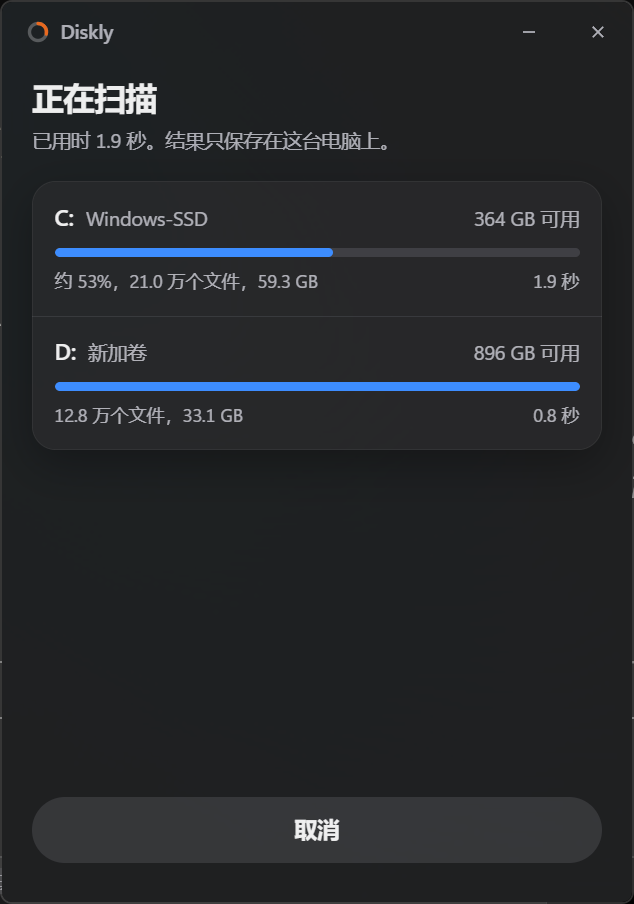
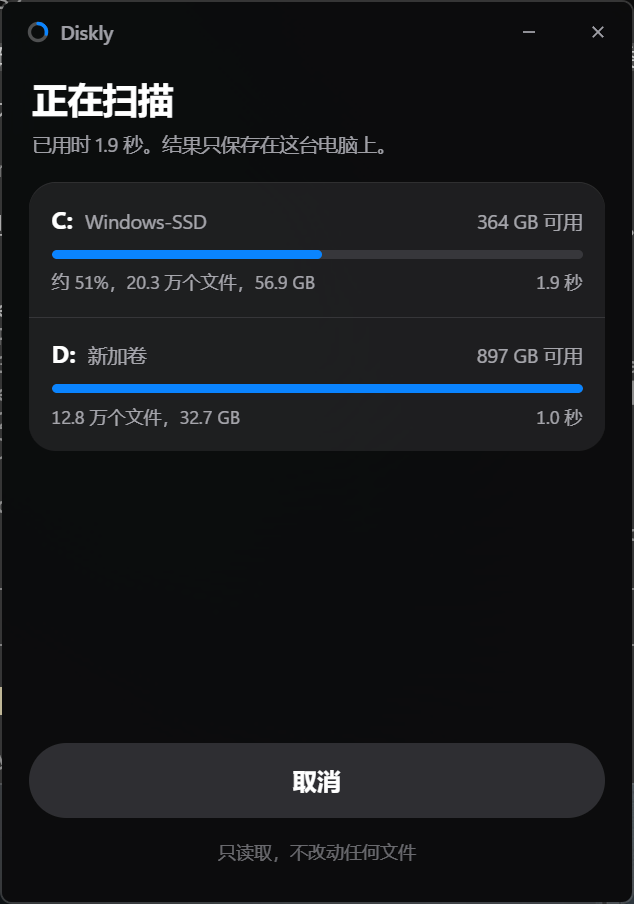
Rewrite the README around speed, size and the report, with the measurements

diff --git a/README.md b/README.md
@@ -1,24 +1,88 @@
 <h1 align="center">Diskly</h1>
 
-<p align="center"><strong>See what changed on your disks since last time.</strong></p>
+<p align="center"><strong>See where your disk space went, in seconds.</strong></p>
 
 <p align="center">
-  Press Scan. A report opens in your browser: how full each disk is, which folders grew or shrank, and what could not be read.<br>
-  Diskly only reads. It never deletes or changes your files, and it never goes online.
+  Press Scan and confirm the Windows prompt. About three seconds later, a report opens in your browser: a map of every disk, the biggest files and folders, and what changed since last time.<br>
+  It stays under 50 MB however long you use it. It only reads, and it never goes online.
 </p>
 
 <p align="center">
-  <img src="docs/images/report-light.png" width="860" alt="The Diskly report: one sentence on what changed, each disk with the change marked on its capacity bar, and the folders that grew and shrank most">
+  <img src="docs/images/report-dark.png" width="880" alt="The Diskly report on a black page: one sentence on what changed, a ring and a bar for each disk, the biggest file and folder, and the top of the space map">
 </p>
+
+<p align="center">
+  <a href="https://github.com/seiya058904/Diskly/releases/latest"><strong>Download for Windows</strong></a>
+  <br><sub>Installer 2.3 MB. Portable file 8.7 MB. The interface is in Chinese.</sub>
+</p>
+
+## Why Diskly
+
+### It is fast
+
+Diskly reads the NTFS file table directly, the same idea that makes WizTree quick, instead of opening folders one by one.
+
+| Two NVMe disks, about 730,000 files in total | Time |
+|---|---:|
+| Fast scan (the default) | **1.5 s** |
+| Saving, and writing the report | about 1 s |
+| The report on screen | 0.35 s |
+| Normal scan, if you decline administrator rights | 5.3 s |
+
+These are from one machine (i7-12700H) with the disks already in the Windows cache. The first fast scan after a while took 3.7 s. A larger or slower disk takes longer. The [full measurements](docs/benchmarks/2026-11-speed-and-footprint.md) say what was and was not tested.
+
+### It stays small, for good
+
+All of Diskly stays under **50 MB**: the program, its window's cache and its data. On the machine above it takes about **26 MB**.
+
+- **It does not build up.** Over 15 real scans in a row, the data went 8.2, 11, 14, 14.6, then stayed at 14.9 MB. A test runs 300 scans and checks that nothing has grown.
+- **It cleans up after itself.** Each scan removes what is no longer needed, and only ever Diskly's own files.
+- **It shows you.** The report and the settings say what it takes now, part by part.
+
+### The report is a pleasure to read
+
+True black, in the style of iOS, with frosted glass where content passes under it. Buttons respond on a spring, rings sweep in, and clicking a folder flies into it.
+
+It is also smooth by construction. Only transform and opacity animate, nothing listens to scrolling, and a choice redraws only what it changes. Scrolling a real report ran every frame within 16.8 ms, with no long tasks. That was measured on the page's main thread, in a headless browser.
+
+<p align="center">
+  <img src="docs/images/report-map.png" width="880" alt="The space map: each folder a tile sized by the space it takes, next to the same folders as a list">
+</p>
+
+**What it shows:**
+
+- **A map of the space.** Every folder is a tile sized by what it takes. Click to fly in, and switch to color by what changed.
+- **The biggest files.** Filter by type, click to copy a path, or jump to the folder.
+- **What the space is made of.** Video, images, archives, programs and more, down to each extension.
+- **The folders that take the most**, down to the ones that really explain it.
+- **Places worth a look.** Recycle Bin, downloads, caches, Docker and WSL, each with what it is and what the system offers for it. Diskly only tells you. It does not touch them.
+- **What changed since last time**, by folder and by file.
+- **The long view.** A trend for each disk over months or years, how fast it is filling, and when it would be full.
+
+<p align="center">
+  <img src="docs/images/report-files.png" width="880" alt="The biggest files with filters by type, next to what kinds of file take the space">
+</p>
+
+<p align="center">
+  <img src="docs/images/report-trend.png" width="880" alt="Used space over a year for each disk, with a forecast and the top-level folders that changed most">
+</p>
+
+### You can trust the numbers
+
+- **It only reads.** Diskly never deletes or changes your files, and a test keeps it that way.
+- **It stays on your computer.** No account, telemetry or network access.
+- **Unknown is not zero.** A folder that could not be read is marked unknown, with everything below it. It never counts as space freed.
+- **It follows the disk, not the letter.** A disk with a new letter still compares. A formatted one starts again rather than reporting everything as deleted.
 
 <table align="center">
   <tr>
-    <td><img src="docs/images/launcher-light.png" width="300" alt="The Diskly window, listing the disks and a Scan button"></td>
-    <td><img src="docs/images/launcher-scanning.png" width="300" alt="The Diskly window during a scan in dark mode, with progress and elapsed time for each disk"></td>
+    <td><img src="docs/images/launcher-home.png" width="270" alt="The Diskly window, listing the disks and a Scan button"></td>
+    <td><img src="docs/images/launcher-scanning.png" width="270" alt="The Diskly window during a scan, with progress and elapsed time for each disk"></td>
+    <td><img src="docs/images/launcher-settings.png" width="270" alt="The settings, showing how much disk space Diskly itself takes against its limit"></td>
   </tr>
 </table>
 
-<p align="center"><sub>The window is real. The report above shows made-up data, so no real paths are published. The interface is in Chinese.</sub></p>
+<p align="center"><sub>The window is real. The report pictures show made-up data, so no real paths are published.</sub></p>
 
 ## Get it
 
@@ -31,16 +95,16 @@ The files are not code-signed, so Windows SmartScreen may warn you the first tim
 
 ## How to use it
 
-1. **Open Diskly** and press **扫描** (Scan). All fixed disks are scanned, and you can cancel at any time.
-2. **The report opens in your default browser.** The first scan records how things are now. From the second scan on, it shows what changed.
-3. **Go through what changed.** Filter by disk, click a folder to look inside, or pick any two past scans to compare.
+1. **Open Diskly** and press **扫描** (Scan). Windows asks once for administrator rights, for the fast scan. All fixed disks are scanned, and you can cancel at any time.
+2. **The report opens in your default browser.** The first scan records how things are now. From the second scan on, it also shows what changed.
+3. **Look around.** Filter by disk or file type, click a tile to go into a folder, click a file to copy its path, or pick two recent scans to compare.
 4. **Press 复制给 AI** (Copy for AI) to get a summary for ChatGPT, Claude or whatever you use. You see the exact text first. Diskly sends nothing itself.
 
-Closing the browser loses nothing. Each report is one file that works offline, and the window's **历史** (History) list opens any of them again.
+Closing the browser loses nothing. Each report is one file that works offline, and the window's **历史** (History) list opens it again.
 
 ## Two ways to scan
 
-The first scan asks which you want. You can change it in **设置** (Settings).
+The fast scan is the default. You can change it in **设置** (Settings).
 
 | | Fast scan | Normal scan |
 |---|---|---|
@@ -51,20 +115,27 @@ The first scan asks which you want. You can change it in **设置** (Settings).
 
 Administrator rights go to a small helper process that exists for that one scan and only reads. The window itself never runs elevated. If you say no, Diskly does a normal scan and says so.
 
-Measured on one machine (i7-12700H, two NVMe SSDs, about 730,000 files in total, disks already cached by Windows):
+## What it keeps
 
-| Both disks | Fast scan | Normal scan |
-|---|---:|---:|
-| Whole scan, including the report data | 1.4 s | 6.8 s |
+| | Kept | Size here |
+|---|---|---:|
+| Program | | 8.7 MB |
+| Scans | The last 3 per disk. Only the newest keeps its files, which the next scan is compared with. Older ones keep only their folders, about a fifth of the size | about 10 MB |
+| Reports | The last 3. An older one is made again when you open it | about 5 MB |
+| Records | One small line per scan, kept for years and thinned with age. They drive the trend charts | a few hundred KB at most |
+| Window cache | WebView2's component downloads and disk caches are turned off, and the folder is cleared if it passes 6 MB | about 2.4 MB |
 
-A larger or slower disk will take longer. These numbers are from one machine; the [full measurements](docs/benchmarks/2026-11-core-acceptance.md) say what was and was not tested.
+If the limit is ever in reach, the oldest go first. There are two exceptions:
+
+- **A disk with several million files** may not fit even one full snapshot. It keeps its records and report and says what it cannot compare, and during such a scan Diskly can briefly pass the limit. This has not been tried on a disk that large.
+- **A power cut during a fast scan**, in the second or two it runs, can leave one set of temporary files that only an administrator can remove.
+
+Everything lives in `%LOCALAPPDATA%\Diskly`. To remove Diskly entirely, uninstall it or delete the portable file, then delete that folder.
 
 ## What the numbers mean
 
 Disk space is easy to measure and easy to get wrong when comparing. Diskly would rather say it does not know.
 
-- **Unknown is not zero.** A folder that could not be read is marked unknown, with everything below it. It never counts as space freed, in that folder or any folder above it.
-- **Disks are matched by identity.** History follows the volume, not the letter. If a disk gets another letter, it still compares. If another disk takes the letter, or a disk is formatted, Diskly starts again rather than reporting everything as deleted.
 - **A missing disk is missing.** It shows as not connected, with its last result.
 - **Fast and normal scans are not compared.** They measure some files differently, such as compressed system files, so comparing them would invent changes. Diskly compares like with like and says when it cannot.
 - **A cancelled scan changes nothing.** It is never used as a baseline.
@@ -73,28 +144,27 @@ Disk space is easy to measure and easy to get wrong when comparing. Diskly would
 
 ## Privacy
 
-Everything stays on your computer. Diskly has no account, telemetry, or network access, and it reads file names and sizes, never file contents.
+Diskly reads file names and sizes, never file contents.
 
 - A report contains your folder and file names. Look through it before you share the file.
 - The text for an AI hides your account and organization names by default, and can also hide the names inside your personal folders. It can still contain other folder and file names, so read it before you send it.
 
-Data lives in `%LOCALAPPDATA%\Diskly\Data`: past scans, reports and settings. Uninstalling leaves it in place, and you can delete the folder yourself. Diskly keeps 20 scans per disk by default, about 6 MB each for 600,000 files, and only ever removes its own old scans.
-
 ## Built on
 
-The scanning engine is [Diskghost](https://github.com/kingchenc/diskghost) by kingchenc, under the MIT License. Diskly was started from it, keeps its history, and adds history, comparison and the two interfaces. One engine bug was fixed, with [the evidence here](docs/benchmarks/2026-11-core-acceptance.md). See [NOTICE](NOTICE) for what comes from where.
+The scanning engine is [Diskghost](https://github.com/kingchenc/diskghost) by kingchenc, under the MIT License. Diskly was started from it, keeps its history, and adds history, comparison and the two interfaces. A few changes were made to the engine, each with its evidence in [docs/benchmarks](docs/benchmarks). See [NOTICE](NOTICE) for what comes from where.
 
 ## Development
 
 Needs Rust and Node 22 or newer, on Windows.
 
 ```powershell
-cargo test --workspace                 # engine, history, comparison, and a guard against deleting
+cargo test --workspace                 # engine, history, comparison, and guards against deleting and growing
 node --test report/lib.test.js         # the report's logic
 
 # The report in a real browser, from a file:// URL
 ./scripts/e2e/build-demo.ps1 -Out $env:TEMP\diskly-demo
 node scripts/e2e/report.e2e.mjs $env:TEMP\diskly-demo $env:TEMP\diskly-shots
+node scripts/e2e/smooth.mjs $env:TEMP\diskly-demo\normal.html $env:TEMP\diskly-shots   # load time, frame times
 
 # The real app on real disks, with its history in a test folder
 cargo build -p diskly --release

diff --git a/CLAUDE.md b/CLAUDE.md
@@ -8,14 +8,22 @@ A minimal Windows tool: a small window starts a scan of every fixed disk, and an
 - **No network.** No accounts, telemetry, built-in AI, or background service. The AI feature is copying text.
 - **Unknown is never zero.** A folder that could not be read, a missing disk or a cancelled scan must never read as space freed. Scans with different engines, or across a format, are not compared at folder level.
 - **Nothing from a scan is markup.** The report assigns text with `textContent`, data stays in inert JSON, and the CSP allows only the page's own code by hash. Never use `innerHTML` or inline handlers.
+- **All of Diskly stays under 50 MB, however long it is used.** That counts the program, the WebView2 folder and the data. `Store::enforce` holds the line. Nothing may grow without a bound: anything new that is kept needs a limit and a test.
 - **Keep the engine close to upstream.** Change `crates/diskghost-core` only with evidence and the smallest diff, and record it in `NOTICE`. The `upstream` remote is Diskghost.
+
+## What the owner asked for
+
+- **The report answers "what is big?" first.** Biggest files, biggest folders, what kinds of file. Never rank what is small: freed space is a detail, closed by default.
+- **The look is iOS on true black, and it must feel smooth.** Spring on press, one element for a sliding thumb, sheets that rise. Only transform and opacity move. Real `backdrop-filter` only on what content moves under (bar, sheet, tooltip), never on panels. A choice redraws only what it changes. Measure with `scripts/e2e/smooth.mjs`.
+- **The fastest scan is the default.** The window does not ask how to scan.
 
 ## Where things are
 
 | Path | What |
 |---|---|
 | `crates/diskly-core` | Volumes, scanning, history store, comparison table, report assembly |
-| `report/lib.js` | All comparison arithmetic, headline and AI text. The only place for it |
+| `crates/diskly-core/src/insights.rs` | Biggest files, kinds, well-known places, worked out once from the finished scan |
+| `report/lib.js` | All comparison arithmetic, map layout, forecast, headline and AI text. The only place for it |
 | `report/report.js` | The report page |
 | `app/ui` | The window; `tokens.css` is shared with the report |
 | `app/src-tauri` | Commands, scan runner, elevated helper |
@@ -32,9 +40,9 @@ node --test report/lib.test.js
 node scripts/e2e/report.e2e.mjs <folder> <shots folder>
 ```
 
-`scripts/e2e/app.e2e.mjs` runs the real app on real disks. Phases `basic` and `browser` need no prompt, and `uac-*` need someone to answer Windows prompts. `DISKLY_DATA_DIR` must end in `Diskly\Data`, or the helper refuses it. Always use it for tests, so the real history stays clean.
+`scripts/e2e/app.e2e.mjs` runs the real app on real disks. Phases `basic` and `browser` need no prompt, and `uac-*` need someone to answer Windows prompts. `DISKLY_DATA_DIR` must end in `Diskly\Data`, or the helper refuses it. The WebView2 folder goes next to it. `WEBVIEW2_ADDITIONAL_BROWSER_ARGUMENTS`, which the tests need for debugging, replaces the app's own flags, so they pass those flags too. Always use it for tests, so the real history stays clean.
 
-Check UI by looking at it: `scripts/e2e/shots.mjs` for the report, `capture-window.ps1` for the window. Playwright's MCP tool blocks `file:` URLs, and the report must be tested from one, so the scripts drive the browser over the DevTools protocol.
+Scan times come from `crates/diskly-core/examples/measure.rs`. Check UI by looking at it: `scripts/e2e/look.mjs` and `shots.mjs` for the report, `capture-window.ps1` for the window. Playwright's MCP tool blocks `file:` URLs, and the report must be tested from one, so the scripts drive the browser over the DevTools protocol.
 
 ## What real use taught
 
@@ -42,9 +50,10 @@ Check UI by looking at it: `scripts/e2e/shots.mjs` for the report, `capture-wind
 - **A UAC prompt takes any amount of time, and times out as a refusal after about 2 minutes.** Nothing may expire while it is open. If the window is not in front, the prompt only flashes in the taskbar.
 - **The prompt covers everything, so people cannot read instructions during it.** To test each answer, read the outcome from the run records (`finished_at - started_at - seconds` is the wait) rather than relying on someone following steps.
 - **More walk threads make it slower.** 4 per volume is the measured best.
+- **Left alone, WebView2 grows to 75 MB in a small window.** It downloads components, which also goes against "no network". The flags in `main.rs` keep it near 2 MB.
 
 ## Publishing
 
 Commit in single-purpose steps; never force-push. Pushing a `v*` tag builds a draft release, and it needs the owner's explicit approval each time, with the version and test results reported first. Before publishing a draft, download its files and run `app.e2e.mjs basic` on them: CI checks out CRLF line ends, so a CI build can differ from a local one.
 
-Never use `git push --tags`. This clone holds Diskghost's own tags (`v0.1.0` to `v0.12.0`), under names Diskly's versions also use. Push a release tag explicitly: `git push origin <commit>:refs/tags/vX.Y.Z`. Never commit real scan output or screenshots of real reports: the README's report pictures come from `scripts/demo/demo-data.js`, and `scripts/e2e/readme-shots.mjs` remakes them.
+Never use `git push --tags`. This clone holds Diskghost's own tags (`v0.1.0` to `v0.12.0`), under names Diskly's versions also use. Push a release tag explicitly: `git push origin <commit>:refs/tags/vX.Y.Z`. Never commit real scan output or screenshots of real reports: the README's report pictures come from `scripts/demo/demo-data.js`, and `scripts/e2e/readme-shots.mjs` remakes them. `gh` may default to the upstream repository here, so always pass `--repo seiya058904/Diskly`.

diff --git a/docs/benchmarks/2026-11-speed-and-footprint.md b/docs/benchmarks/2026-11-speed-and-footprint.md
@@ -1,0 +1,57 @@
+# Speed and footprint
+
+Date: 2026-11-03. Same machine as [the core acceptance report](2026-11-core-acceptance.md): i7-12700H, two NVMe SSDs, Windows 11, Defender on. C: about 600,000 files, D: about 130,000. Disks already cached by Windows.
+
+## Listing directories
+
+Listing only, 4 threads, no tree built. `read_dir` is what the walk used. The other is `NtQueryDirectoryFile` into a 64 KB buffer, with each directory opened relative to its parent.
+
+| | C: | D: |
+|---|---:|---:|
+| `read_dir` | 4.87 s, 6.00 s | 1.05 s |
+| Direct | 4.03 s, 4.20 s, 4.47 s | 0.47 s, 0.48 s |
+
+On C:, 2, 4, 8 and 16 threads take 4.6, 4.2, 4.5 and 5.0 s, so something outside the program limits it. Defender's real-time protection is the likely cause, but this was not isolated. Only the MFT avoids it.
+
+The direct listing also says which folders failed, so the second pass that probed about 22,700 empty-looking folders (1.0 s on C:) is gone. It finds the same unreadable folders as before: 87 on C:, 2 on D:.
+
+## The whole scan
+
+| Both disks, in parallel | Before | Now |
+|---|---:|---:|
+| Fast, through the real window and prompt | 1.35 to 2.48 s | 1.50 s (3.65 s for the first after a while) |
+| Normal, scan and saving together | 6.09 to 7.72 s | 5.76 to 6.55 s |
+
+The fast engine itself did not change. Of a normal scan, C: takes about 5.3 s and D: about 1.0 s. Saving takes 0.08 to 0.56 s and writing the report 0.35 to 0.55 s.
+
+## Disk
+
+| | 0.1.0, after many runs | Now |
+|---|---:|---:|
+| Program | 10.5 MB | 8.7 MB |
+| WebView2 folder | 75 MB measured | 2.3 to 3.7 MB |
+| Data | Grew without a limit: 20 scans of 7.5 MB each, and every report and run record kept | 10.9 to 21 MB |
+
+Data stayed at 14.6 MB over 5 normal scans in a row. It reaches about 21 MB when the newest scan of each engine is kept whole. A full snapshot is about 8 MB here, and one with only folders about 1.6 MB.
+
+The program shrank through `opt-level = "s"`, with the scanning crates kept at level 3. Normal scan times stayed the same afterwards.
+
+## The page
+
+`scripts/e2e/smooth.mjs` on a real report (1.7 MB, 866 elements), in headless Chrome with software drawing:
+
+| | |
+|---|---:|
+| Page ready | 321 ms |
+| First paint | 352 ms |
+| Scrolling 9,294 px: frame time at the median, 95th percentile and worst | 16.7, 16.7, 16.8 ms |
+| Long tasks while scrolling | 0 |
+| Click on the map, on the page's thread | 5.9 ms |
+| Flight into a folder, 95th percentile frame | 16.7 ms |
+
+These are main-thread frames. They do not prove what a given graphics card draws.
+
+## Not tested
+
+- Disks with millions of files. The limits are enforced by tests with small trees, not on such a disk.
+- The window's memory is still about 165 MB of private memory, nearly all WebView2. This work did not reduce it.
